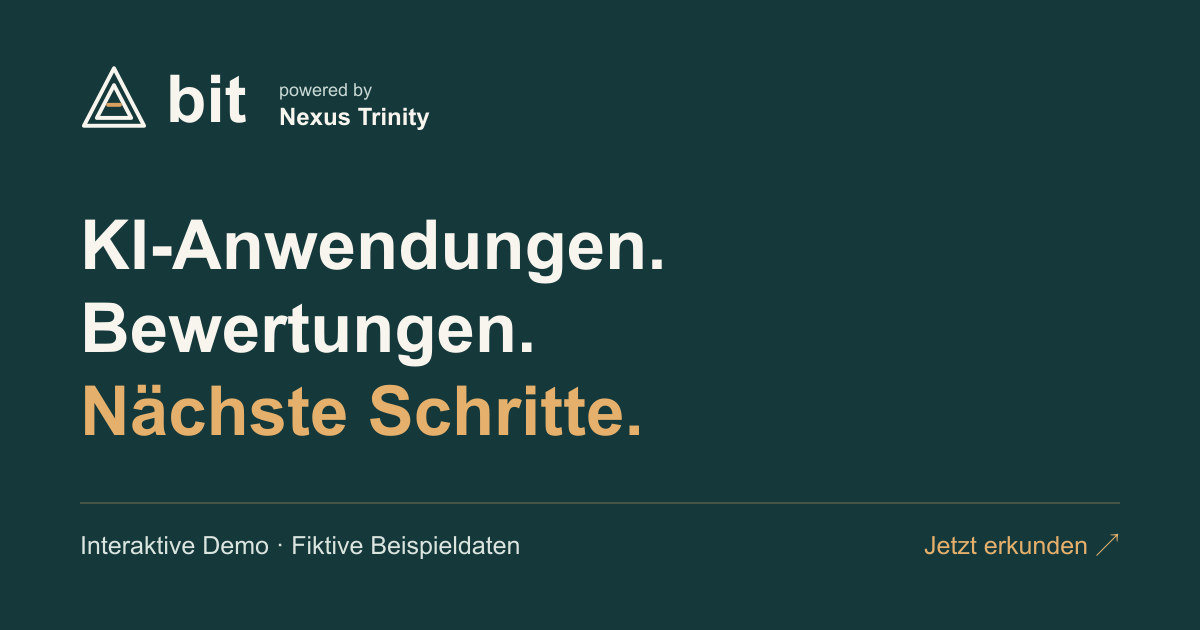
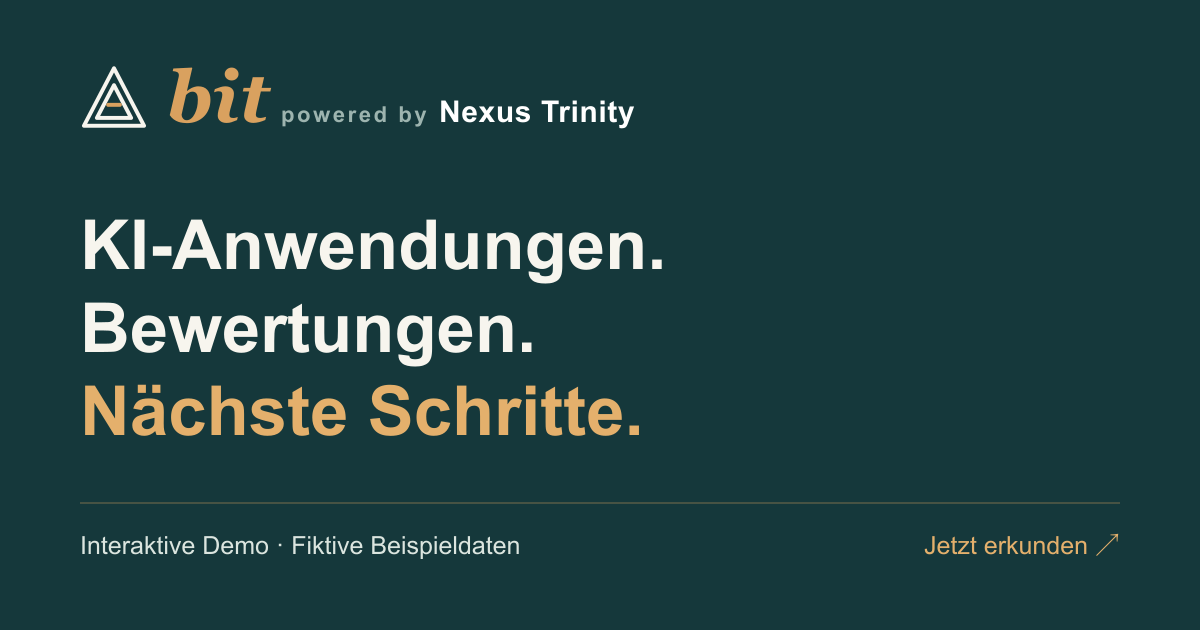
Match demo branding to the live MVP3.2 wordmark

Changed region(s): [[0.1233, 0.0905, 0.5242, 0.2111]]

diff --git a/index.html b/index.html
@@ -11,19 +11,19 @@
   <meta property="og:title" content="bit · Interaktive Demo · powered by Nexus Trinity">
   <meta property="og:description" content="KI-Anwendungen verstehen. Bewertungen und Quellen prüfen. Nächste Schritte im Demoablauf steuern.">
   <meta property="og:url" content="https://boga-nt.github.io/bit-demo/">
-  <meta property="og:image" content="https://boga-nt.github.io/bit-demo/assets/share-card.png">
+  <meta property="og:image" content="https://boga-nt.github.io/bit-demo/assets/share-card-mvp32-20261114.png">
   <meta property="og:image:width" content="1200">
   <meta property="og:image:height" content="630">
   <meta property="og:locale" content="de_DE">
   <meta name="twitter:card" content="summary_large_image">
   <meta name="twitter:title" content="bit · Interaktive Demo · powered by Nexus Trinity">
   <meta name="twitter:description" content="Drei fiktive Einsatzfälle. Bewertungen, Quellen und menschliche Entscheidungen zum Ausprobieren.">
-  <meta name="twitter:image" content="https://boga-nt.github.io/bit-demo/assets/share-card.png">
+  <meta name="twitter:image" content="https://boga-nt.github.io/bit-demo/assets/share-card-mvp32-20261114.png">
   <link rel="icon" href="./favicon.ico?v=20261114" type="image/vnd.microsoft.icon" sizes="16x16 32x32 48x48">
   <link rel="icon" href="./assets/bit-favicon-20261114-32.png" type="image/png" sizes="32x32">
   <link rel="icon" href="./assets/bit-favicon-20261114.svg" type="image/svg+xml" sizes="any">
   <link rel="apple-touch-icon" href="./assets/bit-apple-touch-icon-20261114.png" sizes="180x180">
-  <link rel="stylesheet" href="./assets/styles.css?v=20261114-readable">
+  <link rel="stylesheet" href="./assets/styles.css?v=20261114-mvp32-logo">
 </head>
 <body>
   <a class="skip-link" href="#main">Zum Inhalt springen</a>
@@ -31,7 +31,9 @@
     <div class="header-inner">
       <button class="brand-lockup" type="button" data-view="overview" aria-label="bit — powered by Nexus Trinity · Übersicht öffnen">
         <svg class="brand-symbol" width="34" height="31" viewBox="8 9 104 94" fill="none" aria-hidden="true"><polygon points="60,12 14,100 106,100" stroke="currentColor" stroke-width="6" stroke-linejoin="round"></polygon><polygon points="60,37.9 33.8,88 86.2,88" stroke="currentColor" stroke-width="6" stroke-linejoin="round"></polygon><line x1="51" y1="68" x2="69" y2="68" stroke="#D9A15F" stroke-width="6" stroke-linecap="round"></line></svg>
-        <span class="brand-bit">bit</span><span class="brand-powered">powered by<br><strong>Nexus Trinity</strong></span>
+        <span class="brand-bit">bit</span>
+        <span class="brand-powered">powered by</span>
+        <span class="brand-name">Nexus Trinity</span>
       </button>
       <nav class="primary-nav" aria-label="Hauptnavigation">
         <button type="button" data-view="overview">Übersicht</button>

diff --git a/assets/styles.css b/assets/styles.css
@@ -11,3 +11,11 @@
 
 /* Keep user-entered words inside cards at narrow viewport widths. */
 .task-card h2, .saved-decision p { overflow-wrap: anywhere; }
+/* Canonical bit wordmark from the live MVP3.2 header; logo typography is intentional. */
+.brand-lockup{flex:none;align-items:baseline;gap:9px}
+.brand-symbol{display:block;align-self:center;flex:none;width:34px;height:31px}
+.brand-bit{color:#d9a15f;font:italic 700 36px/1 Georgia,"Times New Roman",serif;letter-spacing:normal}
+.brand-powered{margin-left:3px;color:#9db4af;font:600 11px/1.4 Arial,Helvetica,sans-serif;letter-spacing:1.3px}
+.brand-lockup .brand-name{color:#fff;font:700 15px/1.4 Arial,Helvetica,sans-serif;letter-spacing:.3px}
+@media(max-width:1120px){.brand-powered,.brand-lockup .brand-name{display:none}}
+@media(max-width:480px){.brand-symbol{width:28px;height:27px}.brand-bit{font-size:31px}}
